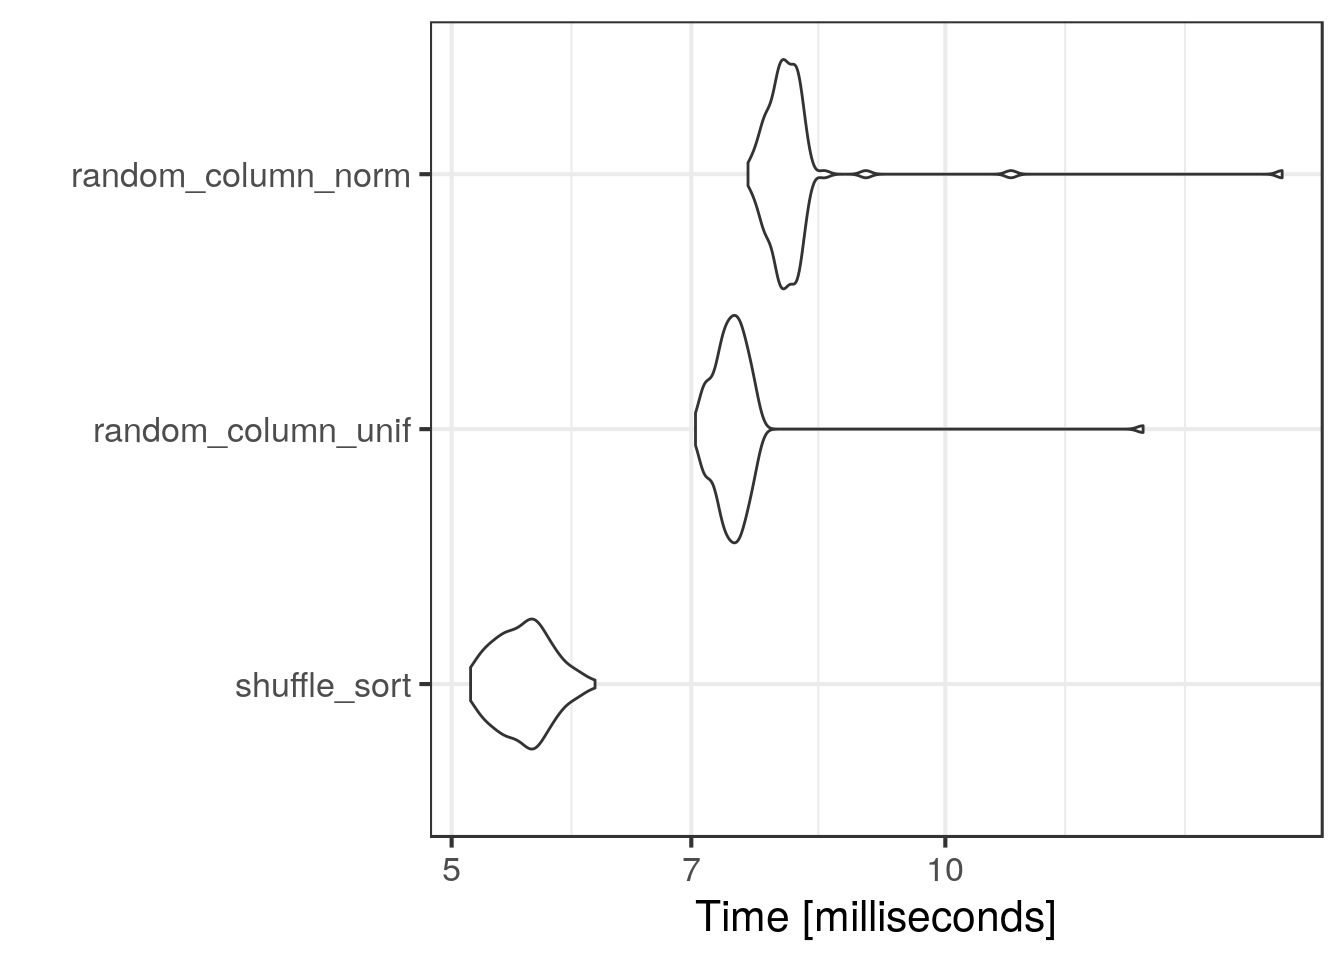
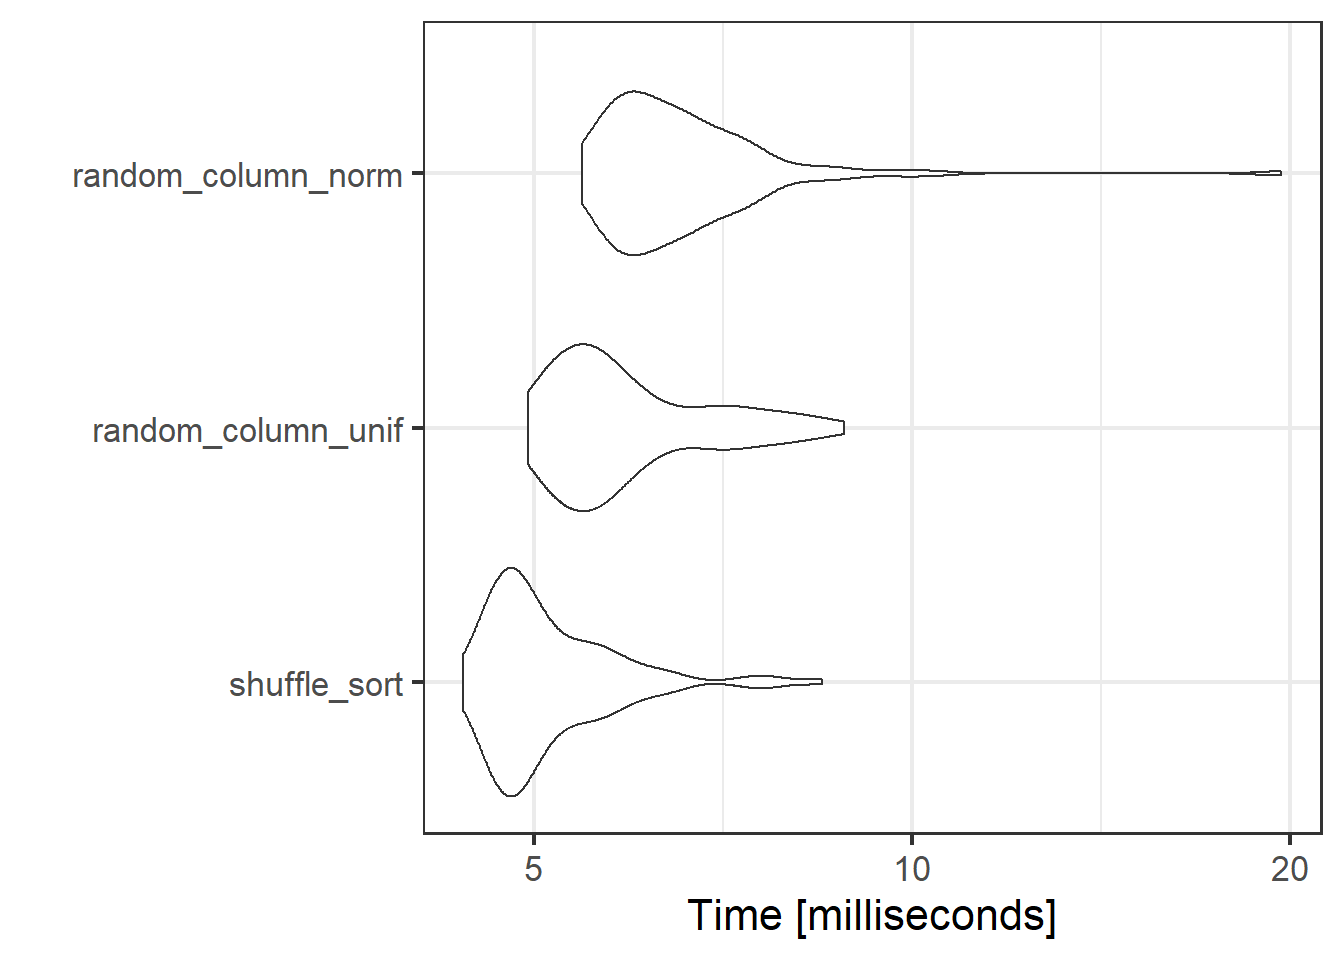
-_-
suffled -> shuffled

diff --git a/content/post/2018-12-07-how-to-shuffle-ties-after-a-sort.html b/content/post/2018-12-07-how-to-shuffle-ties-after-a-sort.html
@@ -1,0 +1,200 @@
+---
+title: How to shuffle ties after a sort?
+author: Guillaume Devailly
+date: '2018-12-07'
+slug: how-to-shuffle-ties-after-a-sort
+categories:
+  - R
+tags:
+  - R
+header:
+  caption: ''
+  image: ''
+math: true 
+---
+
+
+
+<p>When sorting a large table according to a specific metric (let’s say gene expression value),
+it is frequent to have ties for certain values (for example, 0 expression values).
+In most version of sorting, the order of the ties is preserved by the sorting.
+For example, with the base function <code>order</code>:</p>
+<pre class="r"><code>suppressPackageStartupMessages(library(tidyverse))
+
+gene_exp &lt;- tibble(
+    gene_name = paste0(&quot;ENSG0&quot;, 1:9),
+    exp = c(rbind(rnorm(4, mean = 2), c(0, 0, 0, 0)), 0)
+)
+
+gene_exp
+## # A tibble: 9 x 2
+##   gene_name   exp
+##   &lt;chr&gt;     &lt;dbl&gt;
+## 1 ENSG01     2.60
+## 2 ENSG02     0   
+## 3 ENSG03     2.21
+## 4 ENSG04     0   
+## 5 ENSG05     2.05
+## 6 ENSG06     0   
+## 7 ENSG07     2.36
+## 8 ENSG08     0   
+## 9 ENSG09     0
+
+gene_exp[order(gene_exp$exp, decreasing = TRUE), ]
+## # A tibble: 9 x 2
+##   gene_name   exp
+##   &lt;chr&gt;     &lt;dbl&gt;
+## 1 ENSG01     2.60
+## 2 ENSG07     2.36
+## 3 ENSG03     2.21
+## 4 ENSG05     2.05
+## 5 ENSG02     0   
+## 6 ENSG04     0   
+## 7 ENSG06     0   
+## 8 ENSG08     0   
+## 9 ENSG09     0</code></pre>
+<p>Or with <code>dplyr::arrange</code>:</p>
+<pre class="r"><code>gene_exp %&gt;%
+    arrange(desc(exp))
+## # A tibble: 9 x 2
+##   gene_name   exp
+##   &lt;chr&gt;     &lt;dbl&gt;
+## 1 ENSG01     2.60
+## 2 ENSG07     2.36
+## 3 ENSG03     2.21
+## 4 ENSG05     2.05
+## 5 ENSG02     0   
+## 6 ENSG04     0   
+## 7 ENSG06     0   
+## 8 ENSG08     0   
+## 9 ENSG09     0</code></pre>
+<p>This can lead to ungraceful artefacts in some plots.
+For example, in the plot bellow we look at a certain epigenetic mark (H3K36me3)
+at middle exons (neither first nor last exons) according to the exon inclusion ratio metric
+(or <span class="math inline">\(\psi\)</span>):</p>
+<div class="figure">
+<img src="/post/2018-12-07-how-to-shuffle-ties-after-a-sort_files/E005_unshuffled.png" alt="H3K36me3 at middle exons, unshuffled." />
+<p class="caption">H3K36me3 at middle exons, unshuffled.</p>
+</div>
+<p>Here, many exons have <span class="math inline">\(\psi = 1\)</span>, and their order default to a genomic coordinate ordering.
+We can see some dark horizontal stripes, that may reflect contiguous chromatin domains
+but distract us from the main point(s).</p>
+<p>It might be better to shuffle the rows of our table that correspond to ties after our sorting.</p>
+<p>Thinking about how to do it, the first approach that came to my mind was a split - apply - combine,
+where we first split the data frame, apply a shuffling if needed, and combine it back. With our toy example:</p>
+<pre class="r"><code>gene_exp %&gt;%
+    group_by(exp) %&gt;%
+    sample_frac(size = 1, replace = FALSE) %&gt;% # shuffeling within each group
+    ungroup() %&gt;%
+    arrange(desc(exp))
+## # A tibble: 9 x 2
+##   gene_name   exp
+##   &lt;chr&gt;     &lt;dbl&gt;
+## 1 ENSG01     2.60
+## 2 ENSG07     2.36
+## 3 ENSG03     2.21
+## 4 ENSG05     2.05
+## 5 ENSG06     0   
+## 6 ENSG09     0   
+## 7 ENSG02     0   
+## 8 ENSG08     0   
+## 9 ENSG04     0</code></pre>
+<p>Here our ties are correctly shuffled. \o/</p>
+<p>Actually, never mind, the grouping is totally unnecessary,
+one can simply shuffle the dataset first, and sort it later:</p>
+<pre class="r"><code>gene_exp %&gt;%
+    sample_frac(size = 1, replace = FALSE) %&gt;% # shuffeling within each group
+    arrange(desc(exp))
+## # A tibble: 9 x 2
+##   gene_name   exp
+##   &lt;chr&gt;     &lt;dbl&gt;
+## 1 ENSG01     2.60
+## 2 ENSG07     2.36
+## 3 ENSG03     2.21
+## 4 ENSG05     2.05
+## 5 ENSG09     0   
+## 6 ENSG02     0   
+## 7 ENSG08     0   
+## 8 ENSG06     0   
+## 9 ENSG04     0</code></pre>
+<p>A second approach could be to generate a column of random value and
+use it to breaks the ties in the sort:</p>
+<pre class="r"><code>gene_exp %&gt;%
+    mutate(rand = runif(nrow(gene_exp))) %&gt;%
+    arrange(desc(exp), rand) %&gt;%
+    select(-rand)
+## # A tibble: 9 x 2
+##   gene_name   exp
+##   &lt;chr&gt;     &lt;dbl&gt;
+## 1 ENSG01     2.60
+## 2 ENSG07     2.36
+## 3 ENSG03     2.21
+## 4 ENSG05     2.05
+## 5 ENSG08     0   
+## 6 ENSG02     0   
+## 7 ENSG04     0   
+## 8 ENSG09     0   
+## 9 ENSG06     0</code></pre>
+<p>It’s working too! \o/</p>
+<p>There is even no need to create the new column at all:</p>
+<pre class="r"><code>gene_exp %&gt;%
+    arrange(desc(exp), runif(nrow(gene_exp)))
+## # A tibble: 9 x 2
+##   gene_name   exp
+##   &lt;chr&gt;     &lt;dbl&gt;
+## 1 ENSG01     2.60
+## 2 ENSG07     2.36
+## 3 ENSG03     2.21
+## 4 ENSG05     2.05
+## 5 ENSG04     0   
+## 6 ENSG09     0   
+## 7 ENSG06     0   
+## 8 ENSG08     0   
+## 9 ENSG02     0</code></pre>
+<p>Since we now have two approaches, a benchmark is needed to compare them speed-wise.
+We will do it on a larger dataset to be a bit more realistic:</p>
+<pre class="r"><code>gene_exp &lt;- tibble(
+    gene_name = paste0(&quot;ENSG0&quot;, 1:10000),
+    exp = c(rbind(rnorm(5000, mean = 2), rep(0, 5000)))
+)
+
+gene_exp
+## # A tibble: 10,000 x 2
+##    gene_name    exp
+##    &lt;chr&gt;      &lt;dbl&gt;
+##  1 ENSG01    -0.399
+##  2 ENSG02     0    
+##  3 ENSG03     1.22 
+##  4 ENSG04     0    
+##  5 ENSG05     1.62 
+##  6 ENSG06     0    
+##  7 ENSG07     1.91 
+##  8 ENSG08     0    
+##  9 ENSG09     2.37 
+## 10 ENSG010    0    
+## # ... with 9,990 more rows
+
+library(microbenchmark)
+
+microbenchmark(
+    
+    &quot;shuffle_sort&quot; = gene_exp %&gt;%
+        sample_frac(size = 1, replace = FALSE) %&gt;% 
+        arrange(desc(exp)),
+    
+    &quot;random_column_unif&quot; = gene_exp %&gt;%
+        arrange(desc(exp), runif(nrow(gene_exp))),
+    
+    &quot;random_column_norm&quot; = gene_exp %&gt;%
+        arrange(desc(exp), rnorm(nrow(gene_exp)))
+    
+) %&gt;% autoplot() +
+    theme_bw(base_size = 16)
+## Coordinate system already present. Adding new coordinate system, which will replace the existing one.</code></pre>
+<p><img src="/post/2018-12-07-how-to-shuffle-ties-after-a-sort_files/figure-html/unnamed-chunk-7-1.png" width="672" /></p>
+<p>And now I have stacked profiles of epigenetic marks that smooth-out unwanted irregularities,
+by shuffling the ties:</p>
+<div class="figure">
+<img src="/post/2018-12-07-how-to-shuffle-ties-after-a-sort_files/E005_shuffled.png" alt="H3K36me3 at middle exons, ties are now shuffled" />
+<p class="caption">H3K36me3 at middle exons, ties are now shuffled</p>
+</div>
